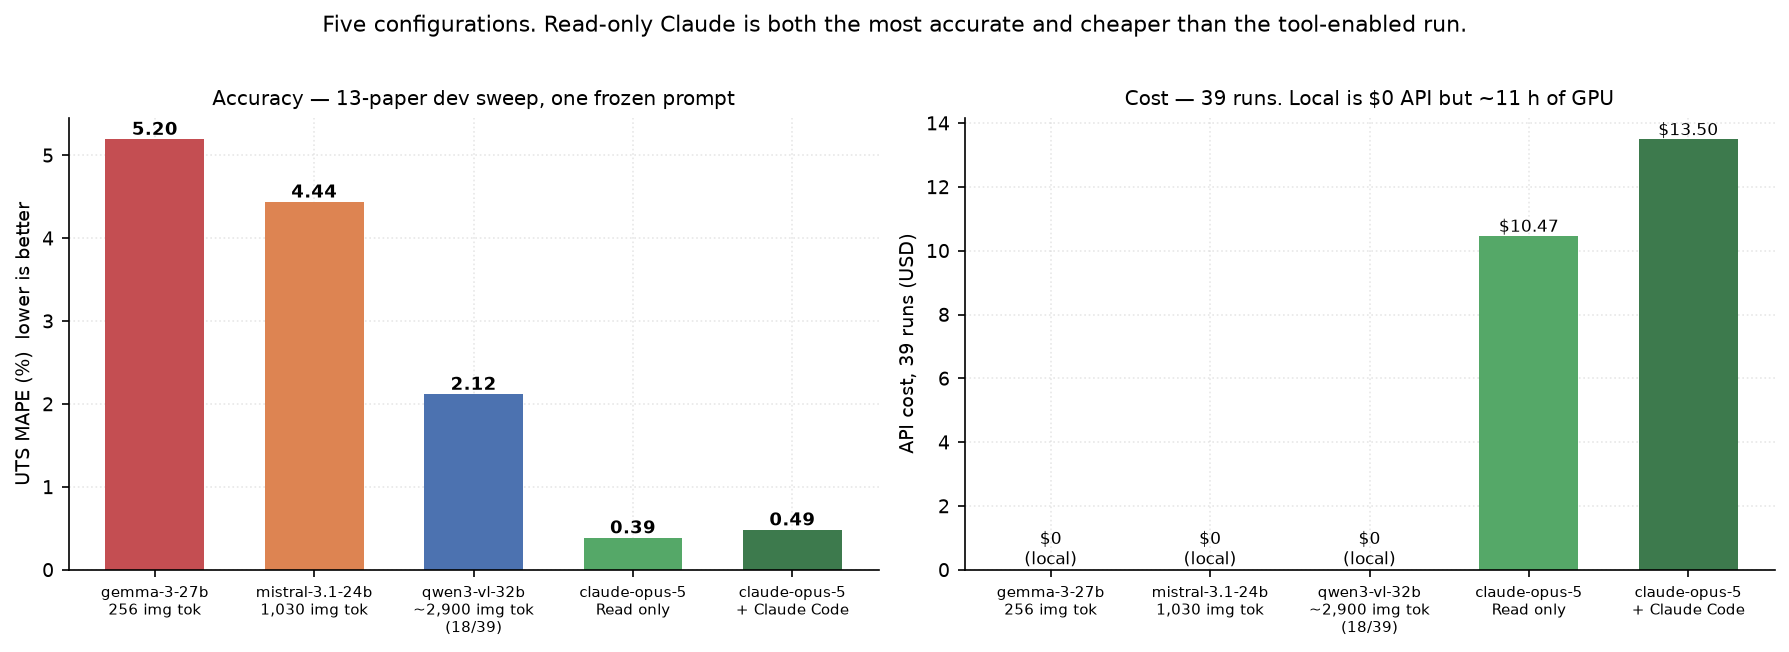
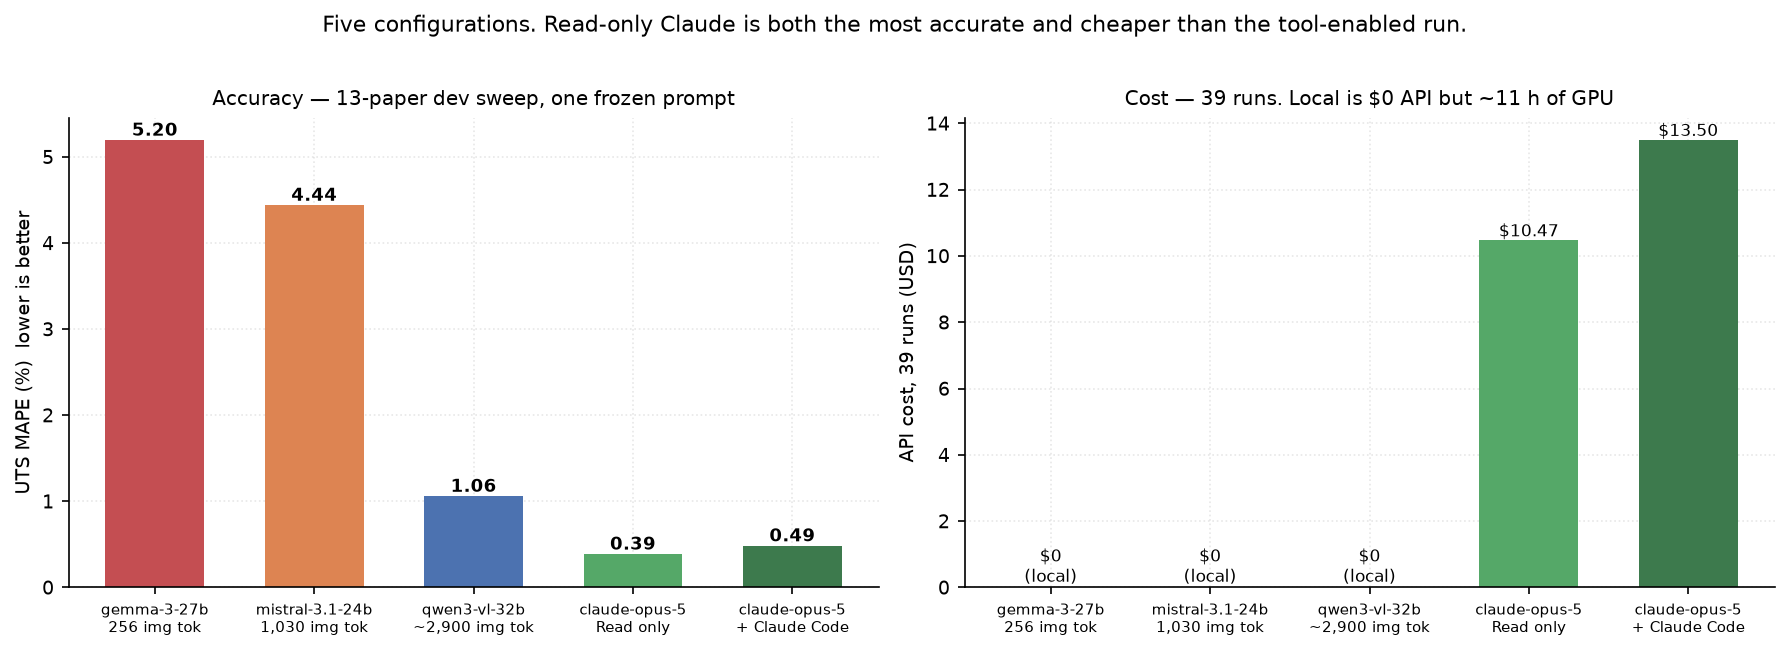
FINAL dev-13 sweep: 117/117 complete — the image-token effect is a gradient
qwen3-vl-32b finished all 39 runs. Final ordering by image-token budget:
  gemma   (256)    UTS MAPE 5.20
  mistral (1,030)  UTS MAPE 4.44
  qwen    (~2,900) UTS MAPE 1.06

This settles the question left open when only two models were complete. It is a
GRADIENT, not a threshold — but an uneven one: qwen beats mistral significantly
(paired Wilcoxon p=0.023) while gemma vs mistral does not separate (p=0.38), so
the bottom two tiers are indistinguishable on value reading and the gain appears
above ~1,000 image tokens.

On the figure-locked papers: CF-P11 29.84/25.96/6.45, CF-P18 13.11/10.17/0.00,
CF-P13 9.28/11.70/3.56.

Sweep took 12 h 24 min with 3 zero-row failures, all Mistral, all context
exhaustion on the longest papers.

Development time finalised: 205 local runs, 24.8 h inference over 2.07 days,
33% superseded by re-runs. Claude side: 78 extractions, $23.98, ~20 min.

Claude-Session: https://claude.ai/code/session_013UGCw4LNzR9XkocEn6dyzh

diff --git a/README.md b/README.md
@@ -50,7 +50,7 @@ different numbers. They are not interchangeable:
 | | papers | prompt | status |
 |---|---|---|---|
 | **A. Early per-paper runs** | CF-P11, P13, P18, P19 | **mixed versions**, changed mid-campaign | complete, superseded |
-| **B. Dev-13 sweep** | all 13 dev papers | **one frozen version** | gemma + mistral complete, **qwen in progress** |
+| **B. Dev-13 sweep** | all 13 dev papers | **one frozen version** | **complete — 117/117** |
 
 **Generation B supersedes A** for any model comparison. A is retained because it contains the
 supplementary-information A/B and the early figure/table contrast, which B does not repeat.
@@ -116,15 +116,14 @@ configuration that reads charts reliably.
 All 13 development papers, 3 models × 3 repeats = 117 runs, one frozen prompt version. **This is the
 result to cite**; generation A above came from mixed prompt versions and is not poolable with it.
 
-> **qwen3-vl-32b is still running (18/39 runs, 6/13 papers).** Its row is marked partial everywhere
-> it appears and must not be compared against the completed rows — the papers it has covered so far
-> are not a random subset. Charts draw it hatched and semi-transparent rather than omitting it.
+**COMPLETE: 117/117 runs, 12 h 24 min wall clock, 3 zero-row failures (all Mistral, all traced to a
+context-exhaustion bug on the longest papers).**
 
 | configuration | model | tools | image path | runs | row F1 | cell | UTS acc | **UTS MAPE** | API cost |
 |---|---|---|---|---|---|---|---|---|---|
 | gemma | `gemma-3-27b-it` | agentic view/note/submit | JPEG, **256** tok | 39 | 0.573 | 0.798 | 0.761 | 5.20 | $0 · local |
 | mistral | `mistral-small-3.1-24b-instruct-2503` | agentic view/note/submit | JPEG, **1,030** tok | 39 | 0.856 | 0.906 | 0.808 | 4.44 | $0 · local |
-| qwen *(partial)* | `qwen3-vl-32b-instruct` | agentic view/note/submit | JPEG, **~2,900** dyn | **18/39** | *0.850* | *0.897* | *0.877* | *2.12* | $0 · local |
+| qwen | `qwen3-vl-32b-instruct` | agentic view/note/submit | JPEG, **~2,900** dyn | 39 | 0.933 | 0.927 | 0.947 | 1.06 | $0 · local |
 | **claude** | `claude-opus-5` | **Read only** | PDF native | 39 | **0.950** | **0.963** | **0.982** | **0.39** | **$10.47** |
 | **claude code** | `claude-opus-5` | Read + Bash + Write + Edit | PDF native + code | 39 | 0.933 | 0.962 | 0.968 | 0.49 | $13.50 |
 
@@ -327,27 +326,31 @@ Ranked, with costs measured rather than estimated — see [docs/next-steps.md](d
 
 ## Total development time estimate
 
-Measured from run artefacts on disk, **as of 2026-07-26 23:20** — not recalled. The dev-13 sweep is
-still running (qwen 18/39), so the local figures are a floor.
+Measured from run artefacts on disk, **final as of 2026-07-27 01:22**. The dev-13 sweep is complete
+(117/117), so these are the numbers, not a floor.
 
 ### Local GPU (Apple M4 Pro, 64 GB)
 
 | | |
 |---|---|
-| **Runs on disk** | **184** |
-| **Total inference** | **22.6 h** |
-| **Calendar span** | **1.98 days**, 2026-07-24 23:43 → 2026-07-26 23:09 |
+| **Runs on disk** | **205** |
+| **Total inference** | **24.8 h** |
+| **Calendar span** | **2.07 days**, 2026-07-24 23:43 → 2026-07-27 01:22 |
 | Hardware | one M4 Pro — no cloud, no GPU rental |
 | Code written | ~1,100 lines Python + 7 runner scripts |
 
 | model | runs | inference |
 |---|---|---|
-| qwen3-vl-32b | 47 | **11.2 h** |
+| qwen3-vl-32b | 68 | **13.4 h** |
 | gemma-3-27b | 68 | 6.0 h |
 | mistral-small-3.1-24b | 68 | 4.9 h |
 
-**Qwen consumed 50 % of all GPU time** while contributing the fewest completed runs — the
-accuracy/cost tradeoff as a budget line rather than a per-run average.
+**Qwen consumed 54 % of all GPU time for the same number of runs** — 2.7× Mistral. It is also the
+only local model that reads charts (UTS MAPE 1.06 % vs 4.44 / 5.20). That is the accuracy/cost
+tradeoff as a budget line rather than a per-run average.
+
+The full dev-13 sweep alone was **117 runs in 12 h 24 min**, with **3 zero-row failures** — all
+Mistral, all traced to context exhaustion on the three longest papers.
 
 ### Claude API
 
@@ -358,22 +361,22 @@ accuracy/cost tradeoff as a budget line rather than a per-run average.
 | **Wall clock** | **~20 min** total (parallel subagents) |
 | **Cost** | **$23.98** at $5/MTok in + $25/MTok out, 90 % input share |
 
-The entire Claude side of the benchmark — two full 13-paper configurations — cost **under $24 and
-20 minutes of wall clock**, against 22.6 h of local GPU for the equivalent local sweeps.
+Two complete 13-paper configurations for **under $24 and twenty minutes**, against 24.8 h of local
+GPU for the local sweeps.
 
-### What the 22.6 h actually bought
+### What the 24.8 h actually bought
 
 | | |
 |---|---|
-| Survived into the published results | **14.6 h** |
-| **Superseded by re-runs** | **8.1 h (36 %)** |
+| Survived into the published results | **16.8 h** |
+| **Superseded by re-runs** | **8.1 h (33 %)** |
 
-Roughly a third of all compute was thrown away and redone. The supplementary A/B ran twice (a
-harness that failed 1-in-3, then again after fixes); CF-P18 and CF-P11 were each re-run after scope
-corrections; the whole dev-13 sweep re-ran all 13 papers because earlier results came from mixed
-prompt versions. Plus model triage, including **three verdicts that were wrong and had to be
-retracted** — each from a qualitative probe rather than a measurement, which is why image-token
-budgets are now measured by token delta.
+A third of all compute was thrown away and redone: the supplementary A/B ran twice (a harness that
+failed 1-in-3, then again after fixes); CF-P18 and CF-P11 were each re-run after scope corrections;
+the whole dev-13 sweep redid all 13 papers because earlier results came from mixed prompt versions.
+Plus model triage, including **three verdicts that were wrong and had to be retracted** — each from
+a qualitative probe rather than a measurement, which is why image-token budgets are now measured by
+token delta.
 
 ### Honest read
 
@@ -383,7 +386,7 @@ truth that contradicted a paper's own Table 1. All changed published results; no
 runtime total.
 
 A team reproducing this — correct ground truth in hand, scorer already right — would need roughly
-**12 h of local compute plus ~$24 of API**, and a day of setup. Building it from scratch, including
+**13 h of local compute plus ~$24 of API**, and a day of setup. Building it from scratch, including
 discovering that the *metric* was the dominant error source, took substantially longer than the
 compute suggests.
 
